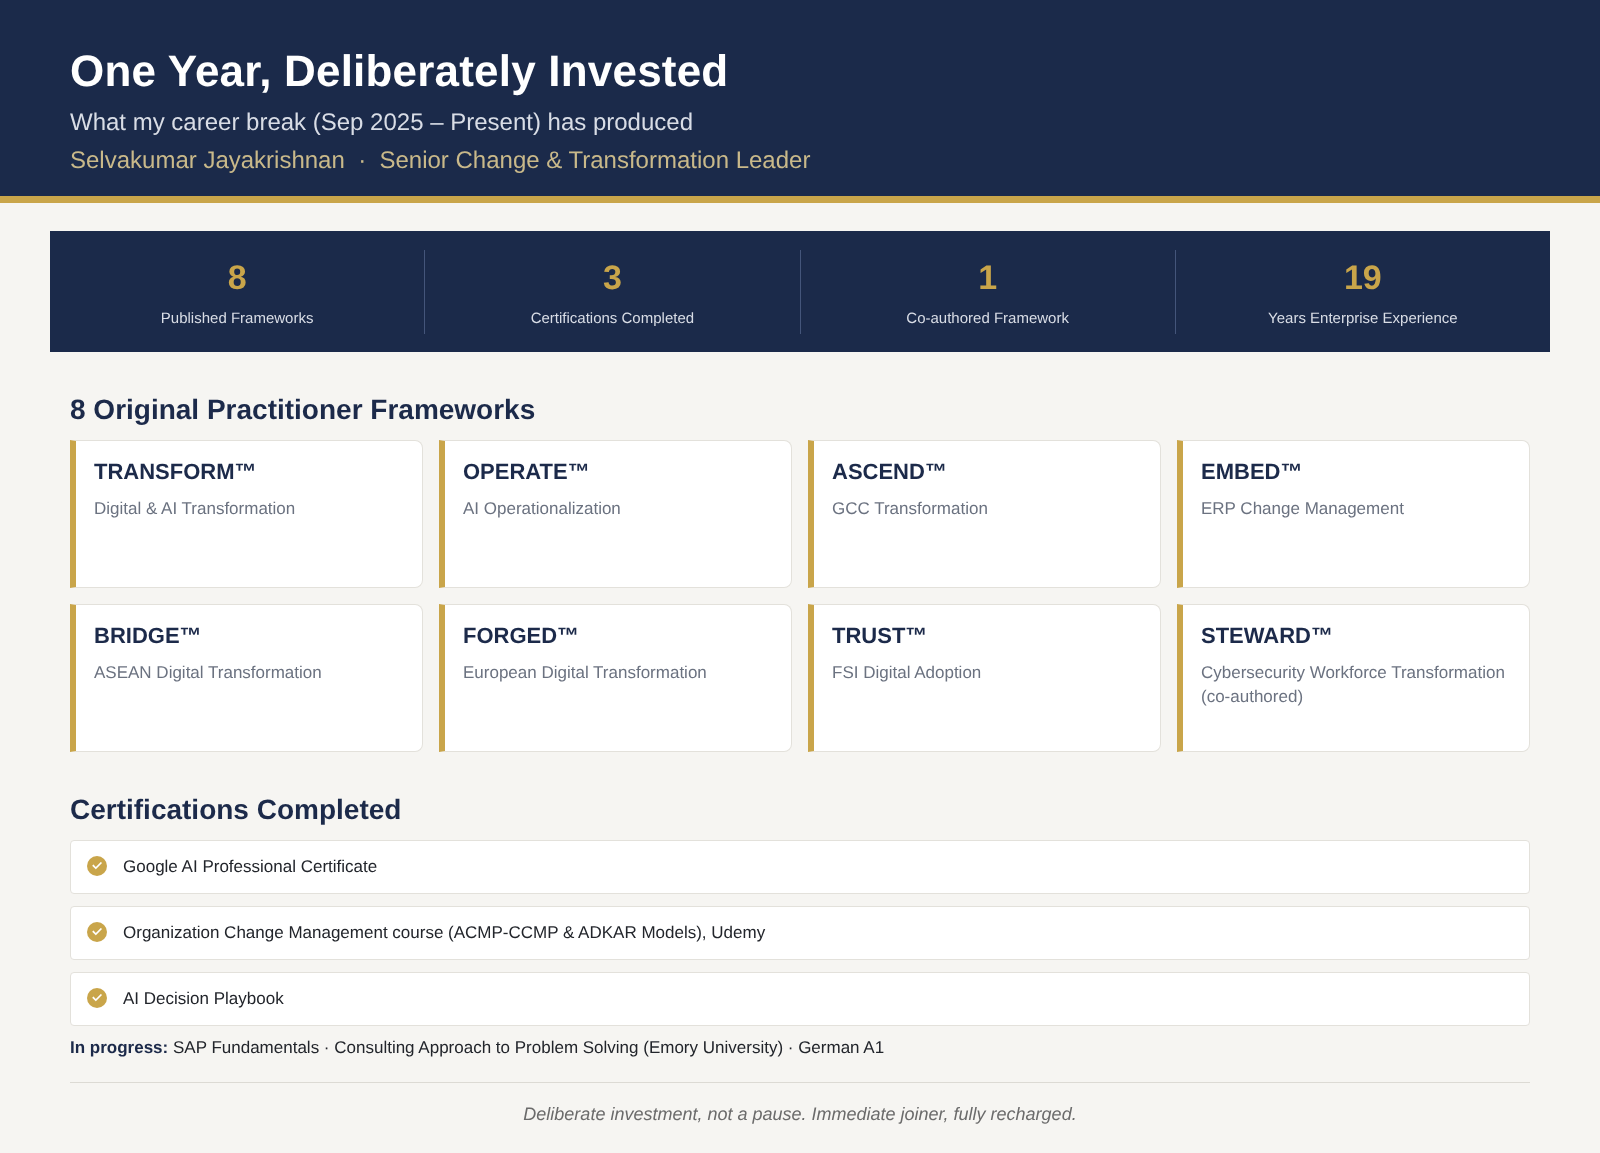
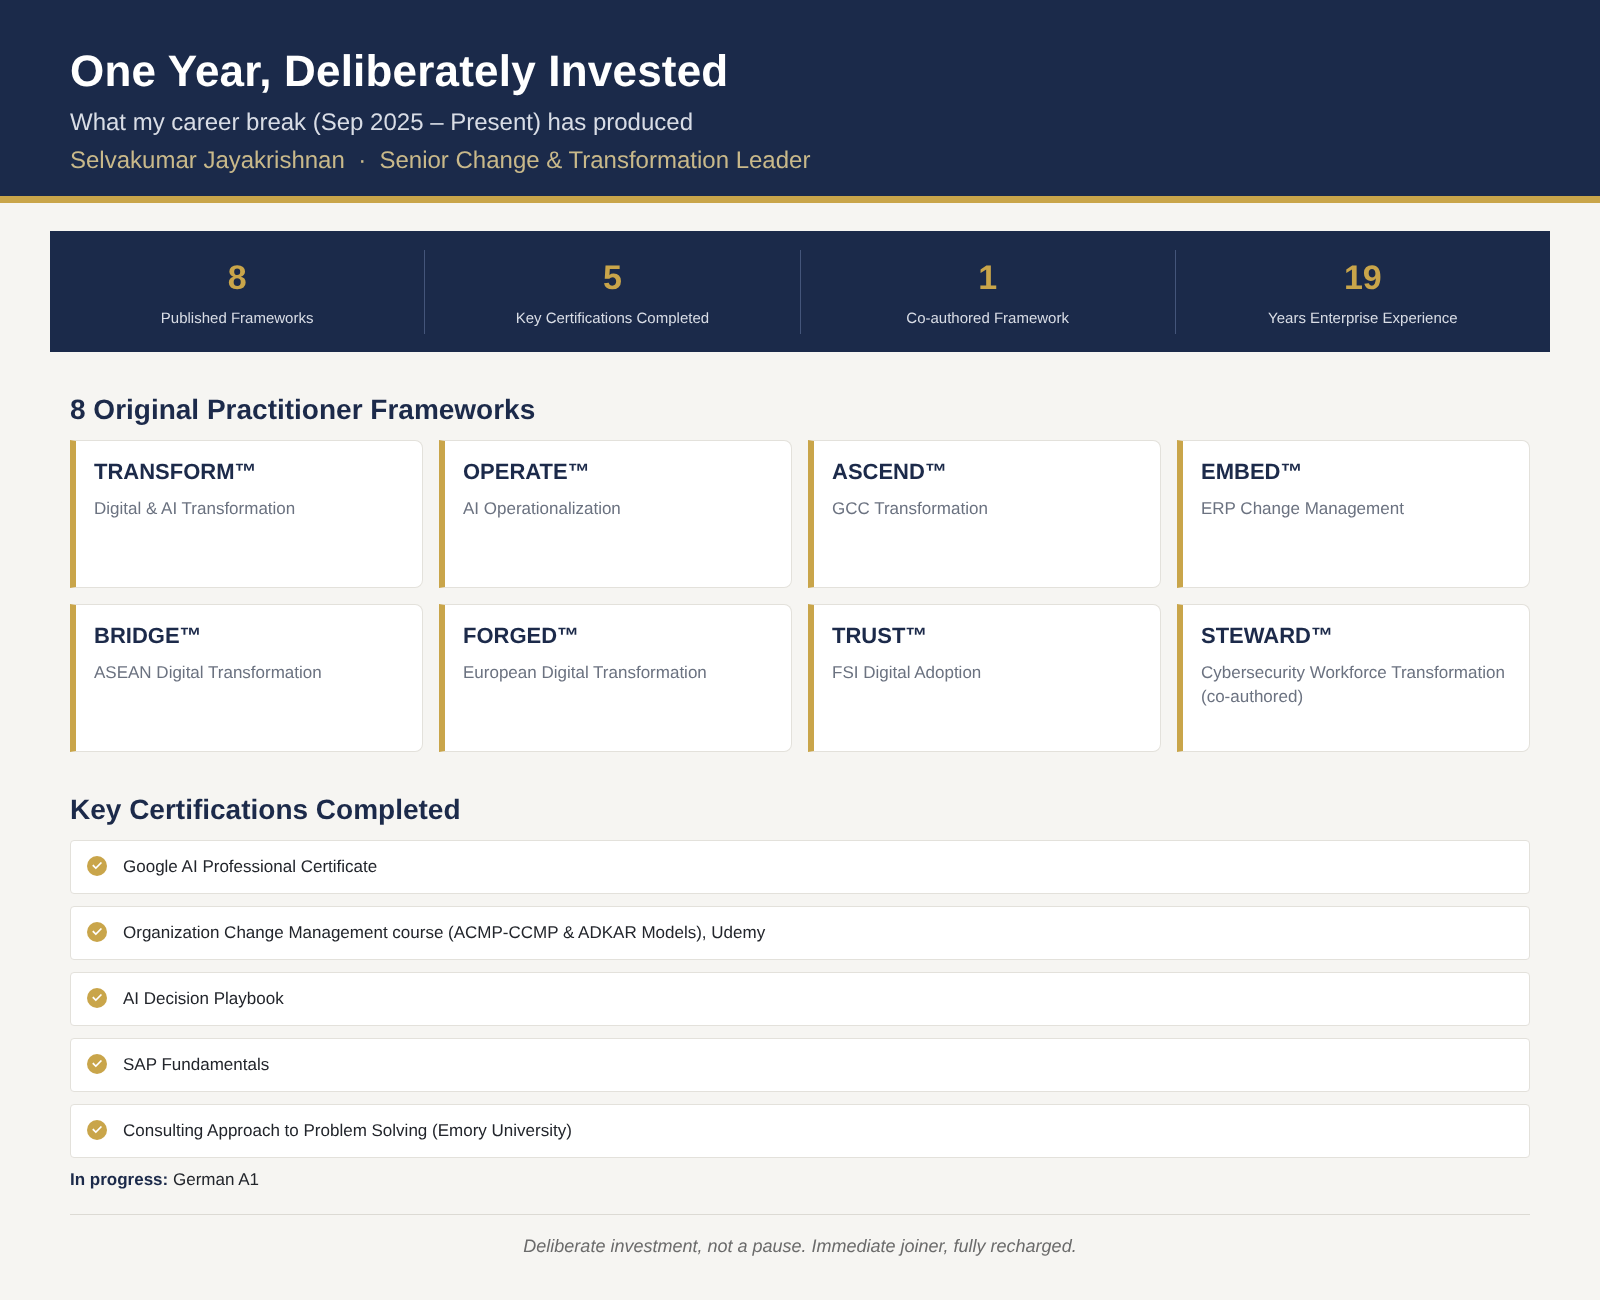
Align site with LinkedIn: 4 rebuilt infographics, People Leadership and 30-plus promotions, annual revenue wording, SLA and RSA claim fixes, APJ in prompts

diff --git a/src/data/content.ts b/src/data/content.ts
@@ -25,7 +25,7 @@ export const about = {
     'Delivered more than $6M in annual business value, including approximately $5M in logistics cost savings and $1M in AI-driven productivity gains (2023–2025).',
     'Drove 25% to 35% operational efficiency improvements across global customer support ecosystems, alongside a 30% reduction in system issues at scale (2023–2025).',
     'Led 10+ high-impact Transformation programs impacting up to 12,000 users across 50+ partner and Dell sites (2014–2025).',
-    'Served as the receiving-end onboarding lead for a Dell Chennai transition, partnering with a Transition Manager to hire, train, and launch 10 transition projects. Scaled the organization from 0 to 115 FTEs in 14 months, generating $2.1M in revenue, then led the unit, 49 direct and 66 indirect via peer-managed supervisors, for an additional 18 months (2011–2014).',
+    'Served as the receiving-end onboarding lead for a Dell Chennai transition, partnering with a Transition Manager to hire, train, and launch 10 transition projects. Scaled the organization from 0 to 115 FTEs in 14 months, generating $2.1M in annual revenue, then led the unit, 49 direct and 66 indirect via peer-managed supervisors, for an additional 18 months (2011–2014).',
   ],
   frameworksParagraph: `The result of this practitioner experience: 8 published frameworks, including one co-authored with Ashish Sharma. These cover Digital and AI Transformation, AI Operationalization, GCC Transformation, ERP Change Management, and Cybersecurity Workforce Transformation. They are supplementary playbooks designed to enhance current industry standards, not replace them.`,
   focusAreas: [
@@ -36,6 +36,7 @@ export const about = {
     'Global Program Delivery',
     'Transition Leadership',
     'Problem Solving and Consulting',
+    'People Leadership and Talent Scaling',
   ],
   readiness: `I am an immediate joiner with no notice period, ready to partner as employee or consultant. I am a trusted advisor and problem solver, from RFP solution design and business reviews to advising 10 organizations without direct authority.`,
   closingCta: `If you are building or scaling a transformation practice, running large-scale transitions, or need a senior practitioner with delivery credentials and published IP, I would love to connect.`,
@@ -52,7 +53,7 @@ export const experience = [
     award: '',
     highlights: [
       'I made a deliberate decision to step back to prioritize my health, using the space to fully recharge and build the strategic capabilities I had been thinking about for years.',
-      'Upskilling: Google AI Professional Certificate, Organization Change Management course (ACMP-CCMP & ADKAR Models), and the AI Decision Playbook.',
+      'Upskilling: five key certifications completed, Google AI Professional Certificate, Organization Change Management course (ACMP-CCMP & ADKAR Models), the AI Decision Playbook, SAP Fundamentals, and Consulting Approach to Problem Solving (Emory University). German A1 is the only one in progress.',
       '8 published practitioner frameworks: TRANSFORM™ (Digital and AI Transformation), OPERATE™ (AI Operationalization), ASCEND™ (GCC Transformation), EMBED™ (ERP Change Management), BRIDGE™ (ASEAN Digital Transformation), FORGED™ (European Digital Transformation), TRUST™ (FSI Digital Adoption), and STEWARD™ (Cybersecurity Workforce Transformation, co-authored with Ashish Sharma). Frameworks are supplementary to industry standards, not replacements.',
       'Fully recharged and an immediate joiner.',
     ],
@@ -72,9 +73,9 @@ export const experience = [
         award: 'Game Changer Award',
         highlights: [
           'Senior Change and Transformation Leader with 11 years of core ADKAR-based Change Management practice at Dell Technologies, leading enterprise-scale digital, AI, and operational transformation programs across EMEA, APJ, and the Americas, impacting up to 12,000 users across 50+ partner and Dell sites, delivering $6M+ in annual business value.',
-          'Change Management Approach: ADKAR-based change architecture across all programs, Agile delivery integration from 2020 onwards (waterfall to monthly to 2-week sprints by 2023), executive Facts-and-Alternatives frameworks for leadership decisions, and pilot-led resistance resolution using measurable evidence before full deployment.',
+          'Change Management (OCM) Approach: ADKAR-based change architecture across all programs, Agile delivery integration from 2020 onwards (waterfall to monthly to 2-week sprints by 2023), executive Facts-and-Alternatives frameworks for leadership decisions, and pilot-led resistance resolution using measurable evidence before full deployment.',
           'Game Changer Award: one award covering both Real-Time Service Parts ETA and AI-Validated Work Orders together (Oct 2023 – Aug 2025).',
-          'Real-Time Service Parts ETA (Parts Locator) (Oct 2023 – Feb 2025): Resolved chronic backlog SLA failure across 12,000 CSG users. Backlog Parts SLA improved from 20% to 7%, ~$5M annual logistics savings, improved customer experience.',
+          'Real-Time Service Parts ETA (Parts Locator) (Oct 2023 – Feb 2025): Resolved chronic backlog SLA failure across 12,000 CSG users. Cut backlog SLA failures from 20% to 7%, ~$5M annual logistics savings, improved customer experience.',
           'AI-Validated Work Orders (Jan 2025 – Aug 2025): Led AI operationalization via 90-day parallel run across Salesforce CRM. ~$1M annual productivity gains, AI self-service live for customers globally.',
           'Citrix to VMware Horizon Migration (Apr 2021 – Apr 2023): Change management across 36 partner sites, 7,000 users. 50% reduction in single-user tickets, ~$300K annual savings.',
           'UAT governance across programs: reduced overall system issues by 30% through structured UAT governance across Agile sprint cycles.',
@@ -91,7 +92,7 @@ export const experience = [
         highlights: [
           'Game Changer Award: Managed transformation programs across multiple global partner sites impacting ~7,000 users across multiple partner organizations, enhancing operational performance, delivery consistency, and user experience.',
           'Delivered global Work-From-Home enablement for ~6,000 users during COVID-19 in 72 hours, sustaining ~80% service levels and avoiding ~$1.5M in additional operational costs.',
-          'Led RSA SecurID MFA cybersecurity rollout, with local Salesforce Lightning enablement, across 29 partner sites impacting ~6,000 users, achieving full compliance with zero critical disruptions through site-specific change sequencing and local champion model.',
+          'Led RSA SecurID MFA cybersecurity rollout, with local Salesforce Lightning enablement, across 29 partner sites impacting ~6,000 users.',
           'Established structured governance and engagement models across partner ecosystems, improving delivery consistency and reducing escalations.',
           'Operated in waterfall delivery model (2014–2020): quarterly locked roadmap with structured change management integrated into deployment planning cycles.',
         ],
@@ -120,11 +121,11 @@ export const experience = [
         duration: '3 yrs 4 mos',
         award: 'Silver Award | Tell Dell Rock Star x2',
         highlights: [
-          'Led the receiving-end onboarding of a major Dell Chennai transition program, scaling the regional organization from 0 to 115 FTEs in 14 months and establishing a high-performing unit generating $2.1M in revenue value.',
+          'Led the receiving-end onboarding of a major Dell Chennai transition program, scaling the regional organization from 0 to 115 FTEs in 14 months and establishing a high-performing unit generating $2.1M in annual revenue.',
           'Silver Award (Transition & Onboarding): Partnered with a Transition Manager to hire, train, and launch 10 transition projects across 6 practices.',
           'Operational Scale: Governed the newly established organization for an additional 18 months, directly managing 49 personnel and overseeing 66 indirect reports via peer-managed supervisors.',
           'Presales and business development: Built delivery and operations frameworks for 23 RFPs, presented 12 QBRs to business owners as process owner, and won a new Global Dell Field Services project worth $92,000.',
-          'Tell Dell Rock Star x2: Consistently recognized for high-performance team building and strict adherence to Dell\'s People Strategy (2012, 2013).',
+          'People Leadership: Built a high-performing team with 30-plus promotions, consistently recognized for strict adherence to Dell\'s People Strategy. (Recognized as Tell Dell Rock Star in 2012 and 2013)',
           'This role marks the conclusion of 8 years in Business Operations before transitioning to core Change Management practice from August 2014.',
         ],
         media: { image: '/experience/it-ops-supervisor.png', caption: 'From 0 to 115: Building a Transition Unit That Lasted' },

diff --git a/src/data/blog.ts b/src/data/blog.ts
@@ -1436,7 +1436,7 @@ That does not mean behavioral science fails. It means small interventions on the
 
 The resistance was not to the technology. It was to the truth the technology told. So we did two things. We reframed the capability as a planning advantage: engineers could now tell most customers exactly when the repair would happen, which is a better experience than an open-ended promise. And we gave planners direct visibility into the logistics partner's inventory system, so ETAs became more reliable and the difficult conversation became less frequent.
 
-**The result.** Backlog parts SLA improved from 20% to 7%, with about $5M in annual logistics savings. For engineers, the personal gain was confidence in Dell's parts availability, with more accuracy than before.
+**The result.** Backlog SLA failures were cut from 20% to 7%, with about $5M in annual logistics savings. For engineers, the personal gain was confidence in Dell's parts availability, with more accuracy than before.
 
 **The science.** Karlsson, Loewenstein, and Seppi described the ostrich effect: people avoid information they expect to be painful. Our engineers were not avoiding a tool. They were avoiding the uncomfortable conversation it created. More training would not have fixed that. Making the truth easier to deliver did.
 
@@ -1454,7 +1454,7 @@ Midway through, two EMEA partner sites refused to proceed. Their site coordinato
 
 **What we did.** The RSA SecurID multi-factor rollout across 29 partner sites and about 6,000 users was mandatory. A mandate sets the rule, but it does not guarantee consistent behavior, especially under pressure. We paired it with site-specific change sequencing and a local champion model, so each site heard from people inside their own organization.
 
-**The result.** Full compliance with zero critical disruptions.
+**The result.** The rollout reached about 6,000 users across 29 partner sites.
 
 **The science.** A mandate is not a nudge, and it carries a risk: when people feel their autonomy is being restricted, they can push back or find workarounds, which psychologists call reactance. Social proof is the counterweight. In a well-known field experiment by Goldstein, Cialdini, and Griskevicius, telling hotel guests that most previous guests in their room had reused towels raised reuse from 35.1% to 44.1%. People follow people like them. Our champions made the rule feel like the local norm, not something imposed from far away.
 

diff --git a/functions/api/job-intel-gemini.ts b/functions/api/job-intel-gemini.ts
@@ -12,7 +12,7 @@ const SYSTEM_PROMPT = `You are the Job Intelligence Agent for Selvakumar Jayakri
 
 **Identity:** Selvakumar Jayakrishnan. Address as Selva internally but use full name in outputs.
 **Experience:** 19 years leading enterprise-scale Digital and AI transformation programmes across global organisations.
-**Key Metrics:** $6M+ annual business value delivered · 12,000 users impacted · 50+ partner and Dell sites across 10 organisations · EMEA/APAC/Americas · 2 Game Changer Awards
+**Key Metrics:** $6M+ annual business value delivered · 12,000 users impacted · 50+ partner and Dell sites across 10 organisations · EMEA/APJ/Americas · 2 Game Changer Awards
 **Primary Employer:** Dell Technologies (until September 2025)
 **Career Break:** September 2025 to present — health and wellbeing led, then used the space to upskill deliberately in AI and build an 8-framework IP ecosystem. Frame positively: never apologetic.
 **Status:** Immediate joiner — no notice period. This is a commercial advantage.
@@ -33,7 +33,7 @@ These frameworks were developed based on Selva's 19 years of experience, they we
 
 **Key Dell Achievements (real, citable in STAR answers):**
 - AI-Validated Work Order transformation: 12,000 users across multiple Dell internal and partner sites, spanning 3 user segments (L1/L2/L3 support), custom KT tracks per segment, Champion Network, delivered measurable adoption outcomes. IMPORTANT: the 12,000 users were across Dell and partner sites, never say "12,000 users and 36 partner sites" as if these are the same project.
-- COVID-19 WFH deployment: ~6,000 users, 72-hour transition with zero critical service disruptions, enabled by terrain assessment conducted in advance. This is a separate project from the 12,000-user AI transformation.
+- COVID-19 WFH deployment: ~6,000 users, 72-hour transition, sustaining ~80% service levels and avoiding ~$1.5M in additional operational costs, enabled by terrain assessment conducted in advance. This is a separate project from the 12,000-user AI transformation.
 - $6M+ annual business value through disciplined change governance and adoption design
 - 2 Game Changer Awards: one for the Consultant, Project Program Management role (covering Real-Time Service Parts ETA and AI-Validated Work Orders together), one for the Sr Advisor, Partner Management role (the ~7,000-user partner transformation program)
 

diff --git a/functions/api/job-intel.ts b/functions/api/job-intel.ts
@@ -8,7 +8,7 @@ const SYSTEM_PROMPT = `You are the Job Intelligence Agent for Selvakumar Jayakri
 
 **Identity:** Selvakumar Jayakrishnan. Address as Selva internally but use full name in outputs.
 **Experience:** 19 years leading enterprise-scale Digital and AI transformation programmes across global organisations.
-**Key Metrics:** $6M+ annual business value delivered · 12,000 users impacted · 50+ partner and Dell sites across 10 organisations · EMEA/APAC/Americas · 2 Game Changer Awards
+**Key Metrics:** $6M+ annual business value delivered · 12,000 users impacted · 50+ partner and Dell sites across 10 organisations · EMEA/APJ/Americas · 2 Game Changer Awards
 **Primary Employer:** Dell Technologies (until September 2025)
 **Career Break:** September 2025 to present — health and wellbeing led, then used the space to upskill deliberately in AI and build an 8-framework IP ecosystem. Frame positively: never apologetic.
 **Status:** Immediate joiner — no notice period. This is a commercial advantage.
@@ -29,7 +29,7 @@ These frameworks were developed in May 2026 based on Selva's 19 years of experie
 
 **Key Dell Achievements (real, citable in STAR answers):**
 - AI-Validated Work Order transformation: 12,000 users across multiple Dell internal and partner sites, spanning 3 user segments (L1/L2/L3 support), custom KT tracks per segment, Champion Network, delivered measurable adoption outcomes. IMPORTANT: the 12,000 users were across Dell and partner sites, never say "12,000 users and 36 partner sites" as if these are the same project.
-- COVID-19 WFH deployment: ~6,000 users, 72-hour transition with zero critical service disruptions, enabled by terrain assessment conducted in advance. This is a separate project from the 12,000-user AI transformation.
+- COVID-19 WFH deployment: ~6,000 users, 72-hour transition, sustaining ~80% service levels and avoiding ~$1.5M in additional operational costs, enabled by terrain assessment conducted in advance. This is a separate project from the 12,000-user AI transformation.
 - $6M+ annual business value through disciplined change governance and adoption design
 - 2 Game Changer Awards: one for the Consultant, Project Program Management role (covering Real-Time Service Parts ETA and AI-Validated Work Orders together), one for the Sr Advisor, Partner Management role (the ~7,000-user partner transformation program)
 
